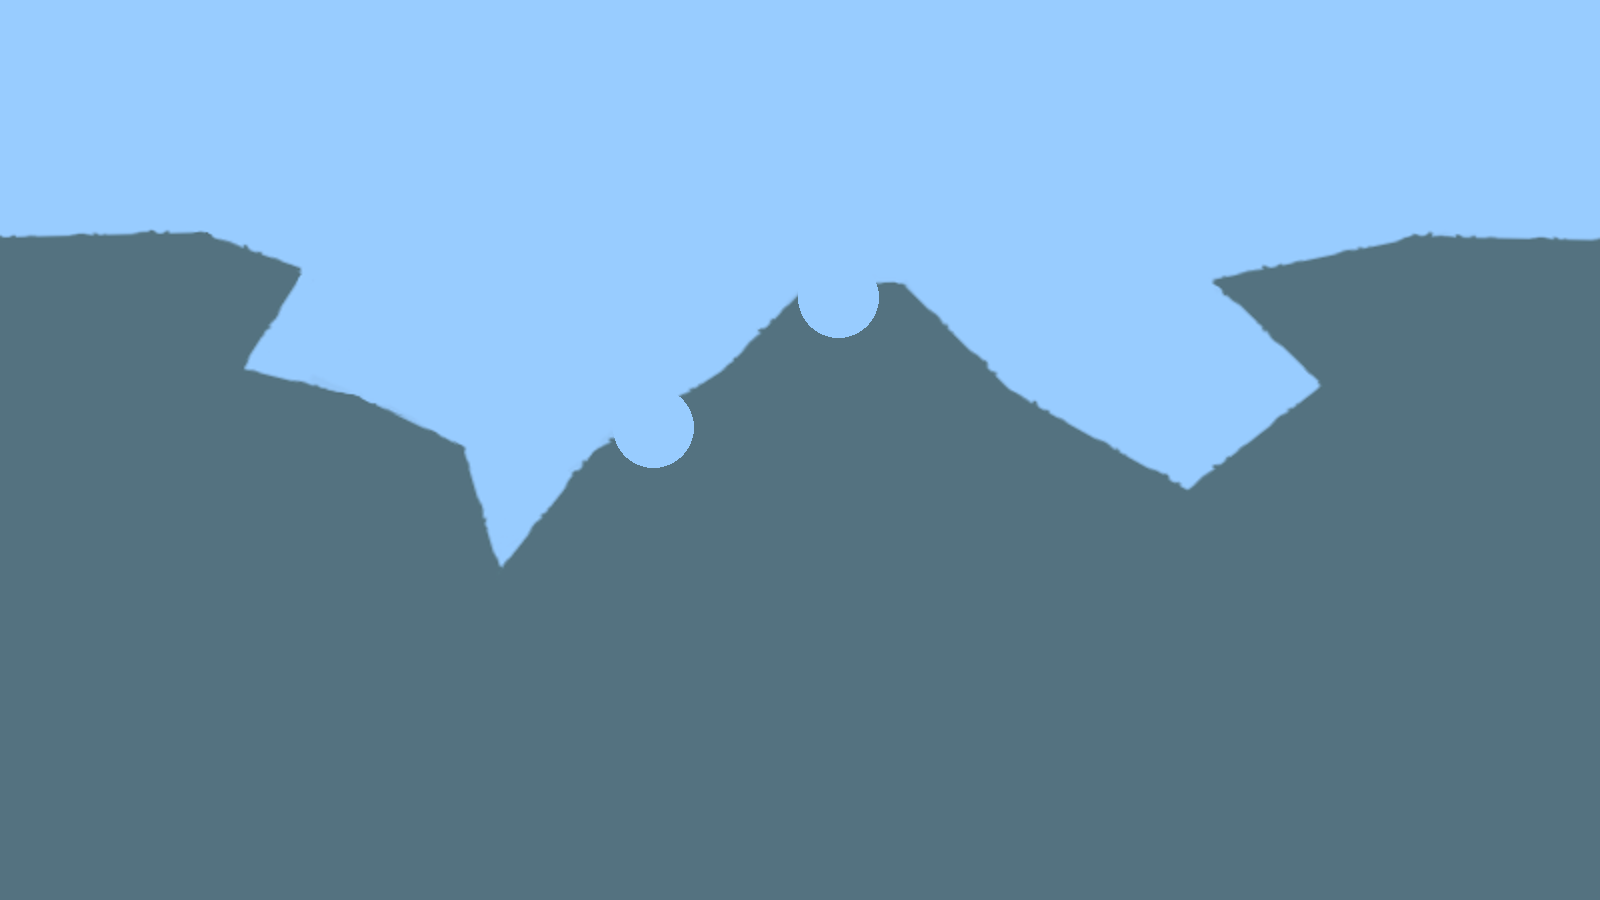
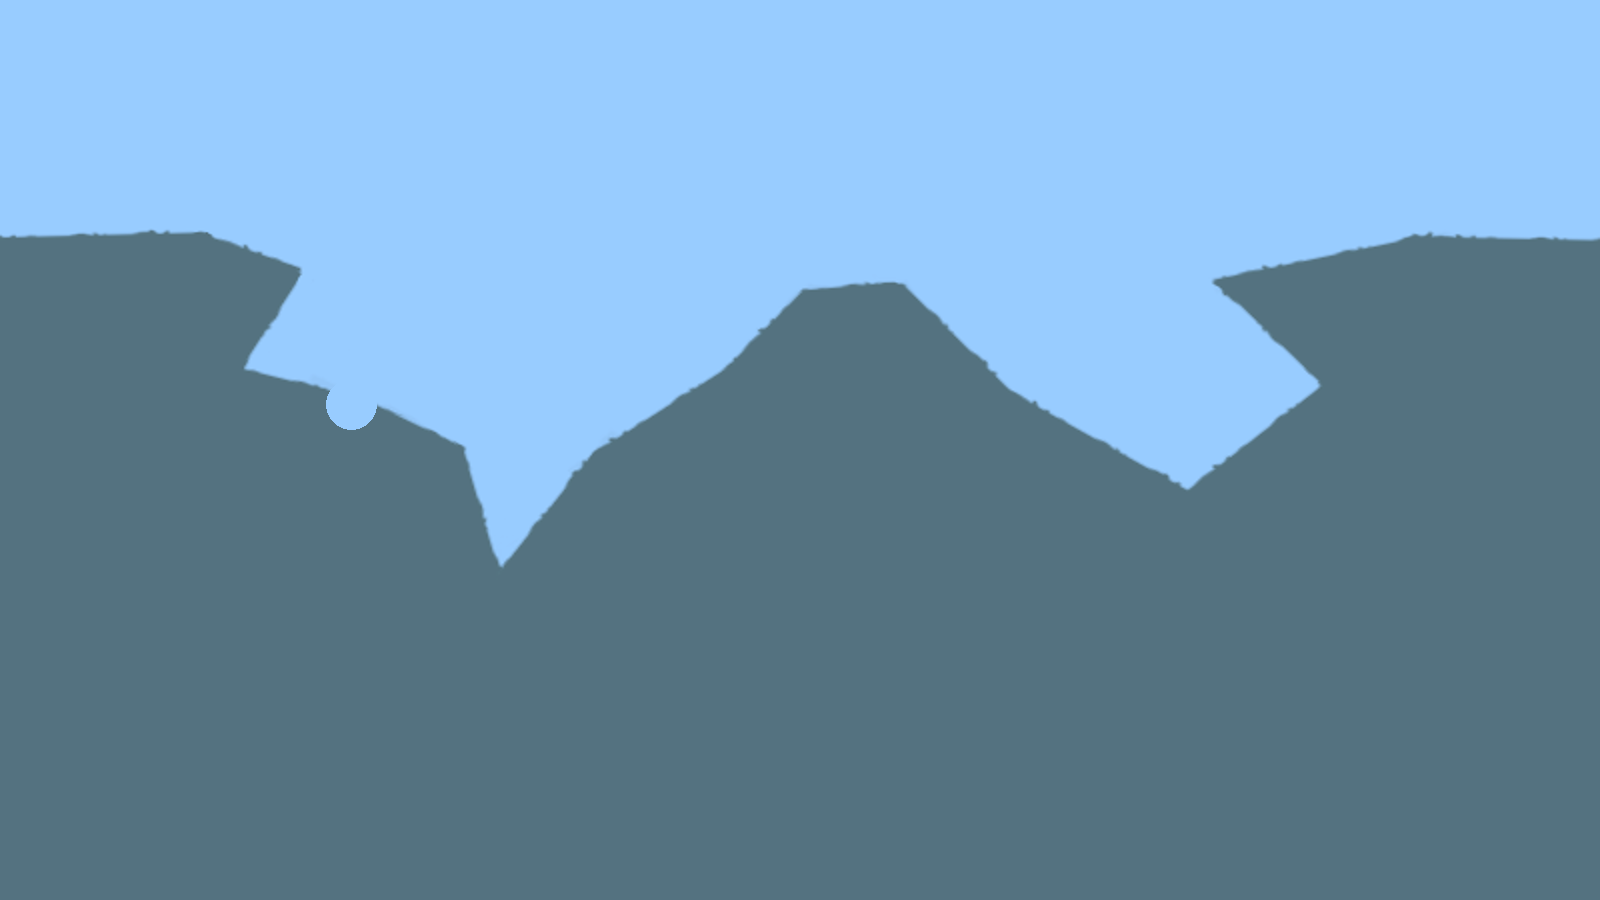
mas_implementaciones_nuevas
+Daño por caida
+Bug visuales del menu_proyectiles arreglados

Changed region(s): [[0.375, 0.4356, 0.4375, 0.5289], [0.5, 0.3111, 0.5625, 0.3733], [0.1875, 0.4356, 0.25, 0.4978]]

diff --git a/Juego - PP/main_2.py b/Juego - PP/main_2.py
@@ -288,8 +288,17 @@ def Juego(g, viento_activo, Lista_proyectiles, jugadores):
 
                     if previo == 'i':
                         listaProyectiles, opcProyectil = InterfazJuego_2.InterfazJuego.menuProyectiles(VENTANA, xEmisor, yEmisor, listaProyectiles)
-                        elem_iniciales2(seleccion_mapa)
-                        Opciones_izq()
+                        if(turno == 0):
+                            elem_inciales(seleccion_mapa)
+                            Opciones_izq()
+                            Tanques_2.Tanques.aparecen(VENTANA, listaPosiciones, numTanques)
+                            #InterfazJuego_2.InterfazJuego.marcadorJugador(VENTANA, 1, xEmisor, yEmisor)
+                        else:
+                            elem_iniciales2(seleccion_mapa)
+                            Opciones_izq()
+                            Tanques_2.Tanques.aparecen(VENTANA, listaPosiciones, numTanques)
+                            #InterfazJuego_2.InterfazJuego.marcadorJugador(VENTANA, 1, xEmisor, yEmisor)
+
                         """if turno == 1:
                             Tanques_2.Tanques.p1(VENTANA, posxEmisor, posyEmisor) #permanecia de tanques p1
                             Tanques_2.Tanques.p2(VENTANA, posxDestino, posyDestino)
@@ -348,7 +357,7 @@ def Juego(g, viento_activo, Lista_proyectiles, jugadores):
         if aux == 0: #Carga elementos iniciales -> elem_inciales(seleccion_mapa)
             listaPosiciones = spawn_tanques(0,seleccion_mapa,numTanques, vida) #num tanques
             for i in range(numTanques): #num tanques
-                listaPosiciones[i] = Tanques_2.Tanques.caen(aux, seleccion_mapa, listaPosiciones[i][0], listaPosiciones[i][1])
+                listaPosiciones[i], contCaida = Tanques_2.Tanques.caen(aux, seleccion_mapa, listaPosiciones[i][0], listaPosiciones[i][1])
                 elem_inciales(seleccion_mapa)
                 Opciones_izq()
                 
@@ -371,11 +380,11 @@ def Juego(g, viento_activo, Lista_proyectiles, jugadores):
         pygame.display.update()  #Actualizacion ventana       
         InterfazJuego_2.InterfazJuego.altura_distancia()         
 
-        if turno == 1:
+        if turno == 1: ## Turno == 1, acciones de jugador
             print("\nJUGADOR", indexListPos+1)
             #fin_juego, angulo_usuario, velocidad_usuario, posxEmisor, posyEmisor, posxDestino, posyDestino
             InterfazJuego_2.InterfazJuego.marcadorJugador(VENTANA, 1, x1_1, y1_2)
-            fin_juego, angulo, velocidad, posX_tanque, posY_tanque, listaProyectiles, opcProyectil = turno_1(x1_1, y1_2, listaProyectiles, 1)
+            fin_juego, angulo, velocidad, posX_tanque, posY_tanque, listaProyectiles, opcProyectil = turno_1(x1_1, y1_2, listaProyectiles, aux)
 
             t = 0
             alt_max = Altura_maximo(velocidad , angulo)
@@ -450,7 +459,8 @@ def Juego(g, viento_activo, Lista_proyectiles, jugadores):
         ''' FIN COLISIONES '''
 
         for i in range(numTanques):
-            listaPosiciones[i] = Tanques_2.Tanques.caen(aux, seleccion_mapa, listaPosiciones[i][0], listaPosiciones[i][1])
+            listaPosiciones[i], contCaida = Tanques_2.Tanques.caen(aux, seleccion_mapa, listaPosiciones[i][0], listaPosiciones[i][1])
+            vida = Tanques_2.Tanques.vida(VENTANA, vida, (contCaida*0.2), i+1)
         #elem_iniciales2(seleccion_mapa)
         Opciones_izq()
         Tanques_2.Tanques.aparecen(VENTANA, listaPosiciones, numTanques)

diff --git a/Juego - PP/main.py b/Juego - PP/main.py
@@ -511,7 +511,6 @@ def Juego(g, viento_activo, Lista_proyectiles):
     listaProyectilesB = Proyectil.Proyectil.proyectiles(listaProyectilesB,municion_105, municion_perfor,municion_60)
     vida = [100, 100]
 
-   
 
     while turno != 0: #PRINCIPAL
 
@@ -520,6 +519,10 @@ def Juego(g, viento_activo, Lista_proyectiles):
             Tanques.Tanques.p1(VENTANA, x1_1, y1_2,seleccion_mapa) #permanecia de tanques p1
             Tanques.Tanques.p2(VENTANA, x2_1,y2_2,seleccion_mapa)
             vida = Tanques.Tanques.vida(VENTANA, vida, 0, 0)
+            #listaPosiciones[0], contCaida = Tanques.Tanques.caen(0, seleccion_mapa, listaPosiciones[0][0], listaPosiciones[0][1])
+            #listaPosiciones[1], contCaida = Tanques.Tanques.caen(0, seleccion_mapa, listaPosiciones[1][0], listaPosiciones[1][1])
+            elem_inciales(seleccion_mapa)
+            Opciones_izq()
 
         vida = Tanques.Tanques.vida(VENTANA, vida, 0, 0)
         pygame.display.update()
@@ -533,7 +536,8 @@ def Juego(g, viento_activo, Lista_proyectiles):
             #fin_juego, angulo_usuario, velocidad_usuario, posxEmisor, posyEmisor, posxDestino, posyDestino
             InterfazJuego.InterfazJuego.marcadorJugador(VENTANA, 1, x1_1, y1_2)
             fin_juego, angulo, velocidad, posX_tanque, posY_tanque, col_posxT, col_posyT, listaProyectiles, opcProyectil = turno_1(x1_1, y1_2, x2_1, y2_2, listaProyectiles, 1)
-            
+            #listaPosiciones[0], contCaida = Tanques.Tanques.caen(0, seleccion_mapa, listaPosiciones[0][0], listaPosiciones[0][1])
+            #listaPosiciones[1], contCaida = Tanques.Tanques.caen(0, seleccion_mapa, listaPosiciones[1][0], listaPosiciones[1][1])
             t = 0
             alt_max = Altura_maximo(velocidad , angulo)
             turno += 5 #no entrada
@@ -617,6 +621,8 @@ def Juego(g, viento_activo, Lista_proyectiles):
             alt_max = Altura_maximo(velocidad , angulo)
             turno += 5 #no entrada
             cont += 1 #Contador de turnos
+            #listaPosiciones[0], contCaida = Tanques.Tanques.caen(0, seleccion_mapa, listaPosiciones[0][0], listaPosiciones[0][1])
+            #listaPosiciones[1], contCaida = Tanques.Tanques.caen(0, seleccion_mapa, listaPosiciones[1][0], listaPosiciones[1][1])
 
         for event in pygame.event.get():
             pos = pygame.mouse.get_pos()            

diff --git a/Juego - PP/Tanques.py b/Juego - PP/Tanques.py
@@ -1,4 +1,5 @@
 import pygame
+from PIL import Image
 
 class Tanques():
 
@@ -43,6 +44,33 @@ class Tanques():
             if(y_proyect >= b_posT and y_proyect <= b_posT+35):
                 #print("Ok_colison_proyectil_tanque")
                 return True
+
+    def caen(turno, seleccion_mapa, posx_tank, posy_tank):
+        
+        contCaida = 0
+
+        if seleccion_mapa == 1:
+            
+            color_terreno = (84,114,128)
+            
+            if(turno == 0):
+                im = Image.open("imagenes/800x500/m1.png")
+            if(turno != 0):
+                im = Image.open("imagenes/800x500/m11.png")
+            im = im.convert("RGBA")
+            pixels = im.load()
+
+            r, g, b, a = pixels[posx_tank, posy_tank]
+
+            while(pixels[posx_tank+25, posy_tank+25] != (84,114,128,255)):
+                posy_tank += 1
+                contCaida += 1
+                
+            """while(pixels[posx_tank][posy_tank+25+i] != (84,114,128) and pixels[posx_tank+50][posx_tank+25+i] != (84,114,128)):
+                posy_tank += 1
+                i += 1"""
+
+            return (posx_tank, posy_tank) , contCaida
 
     def vida(VENTANA, lista, daño, id):
     

diff --git a/Juego - PP/Tanques_2.py b/Juego - PP/Tanques_2.py
@@ -15,6 +15,8 @@ class Tanques():
         
     def caen(turno, seleccion_mapa, posx_tank, posy_tank):
         
+        contCaida = 0
+
         if seleccion_mapa == 1:
             
             color_terreno = (84,114,128)
@@ -30,14 +32,14 @@ class Tanques():
 
             while(pixels[posx_tank+25, posy_tank+25] != (84,114,128,255)):
                 posy_tank += 1
+                contCaida += 1
                 
             """while(pixels[posx_tank][posy_tank+25+i] != (84,114,128) and pixels[posx_tank+50][posx_tank+25+i] != (84,114,128)):
                 posy_tank += 1
                 i += 1"""
 
-            return posx_tank, posy_tank
+            return (posx_tank, posy_tank) , contCaida
             
-
 
     def p1(VENTANA, coordenada1_1, coordenada1_2): # b = random
         tanque_1 = pygame.image.load("imagenes/tanque_1.png")
